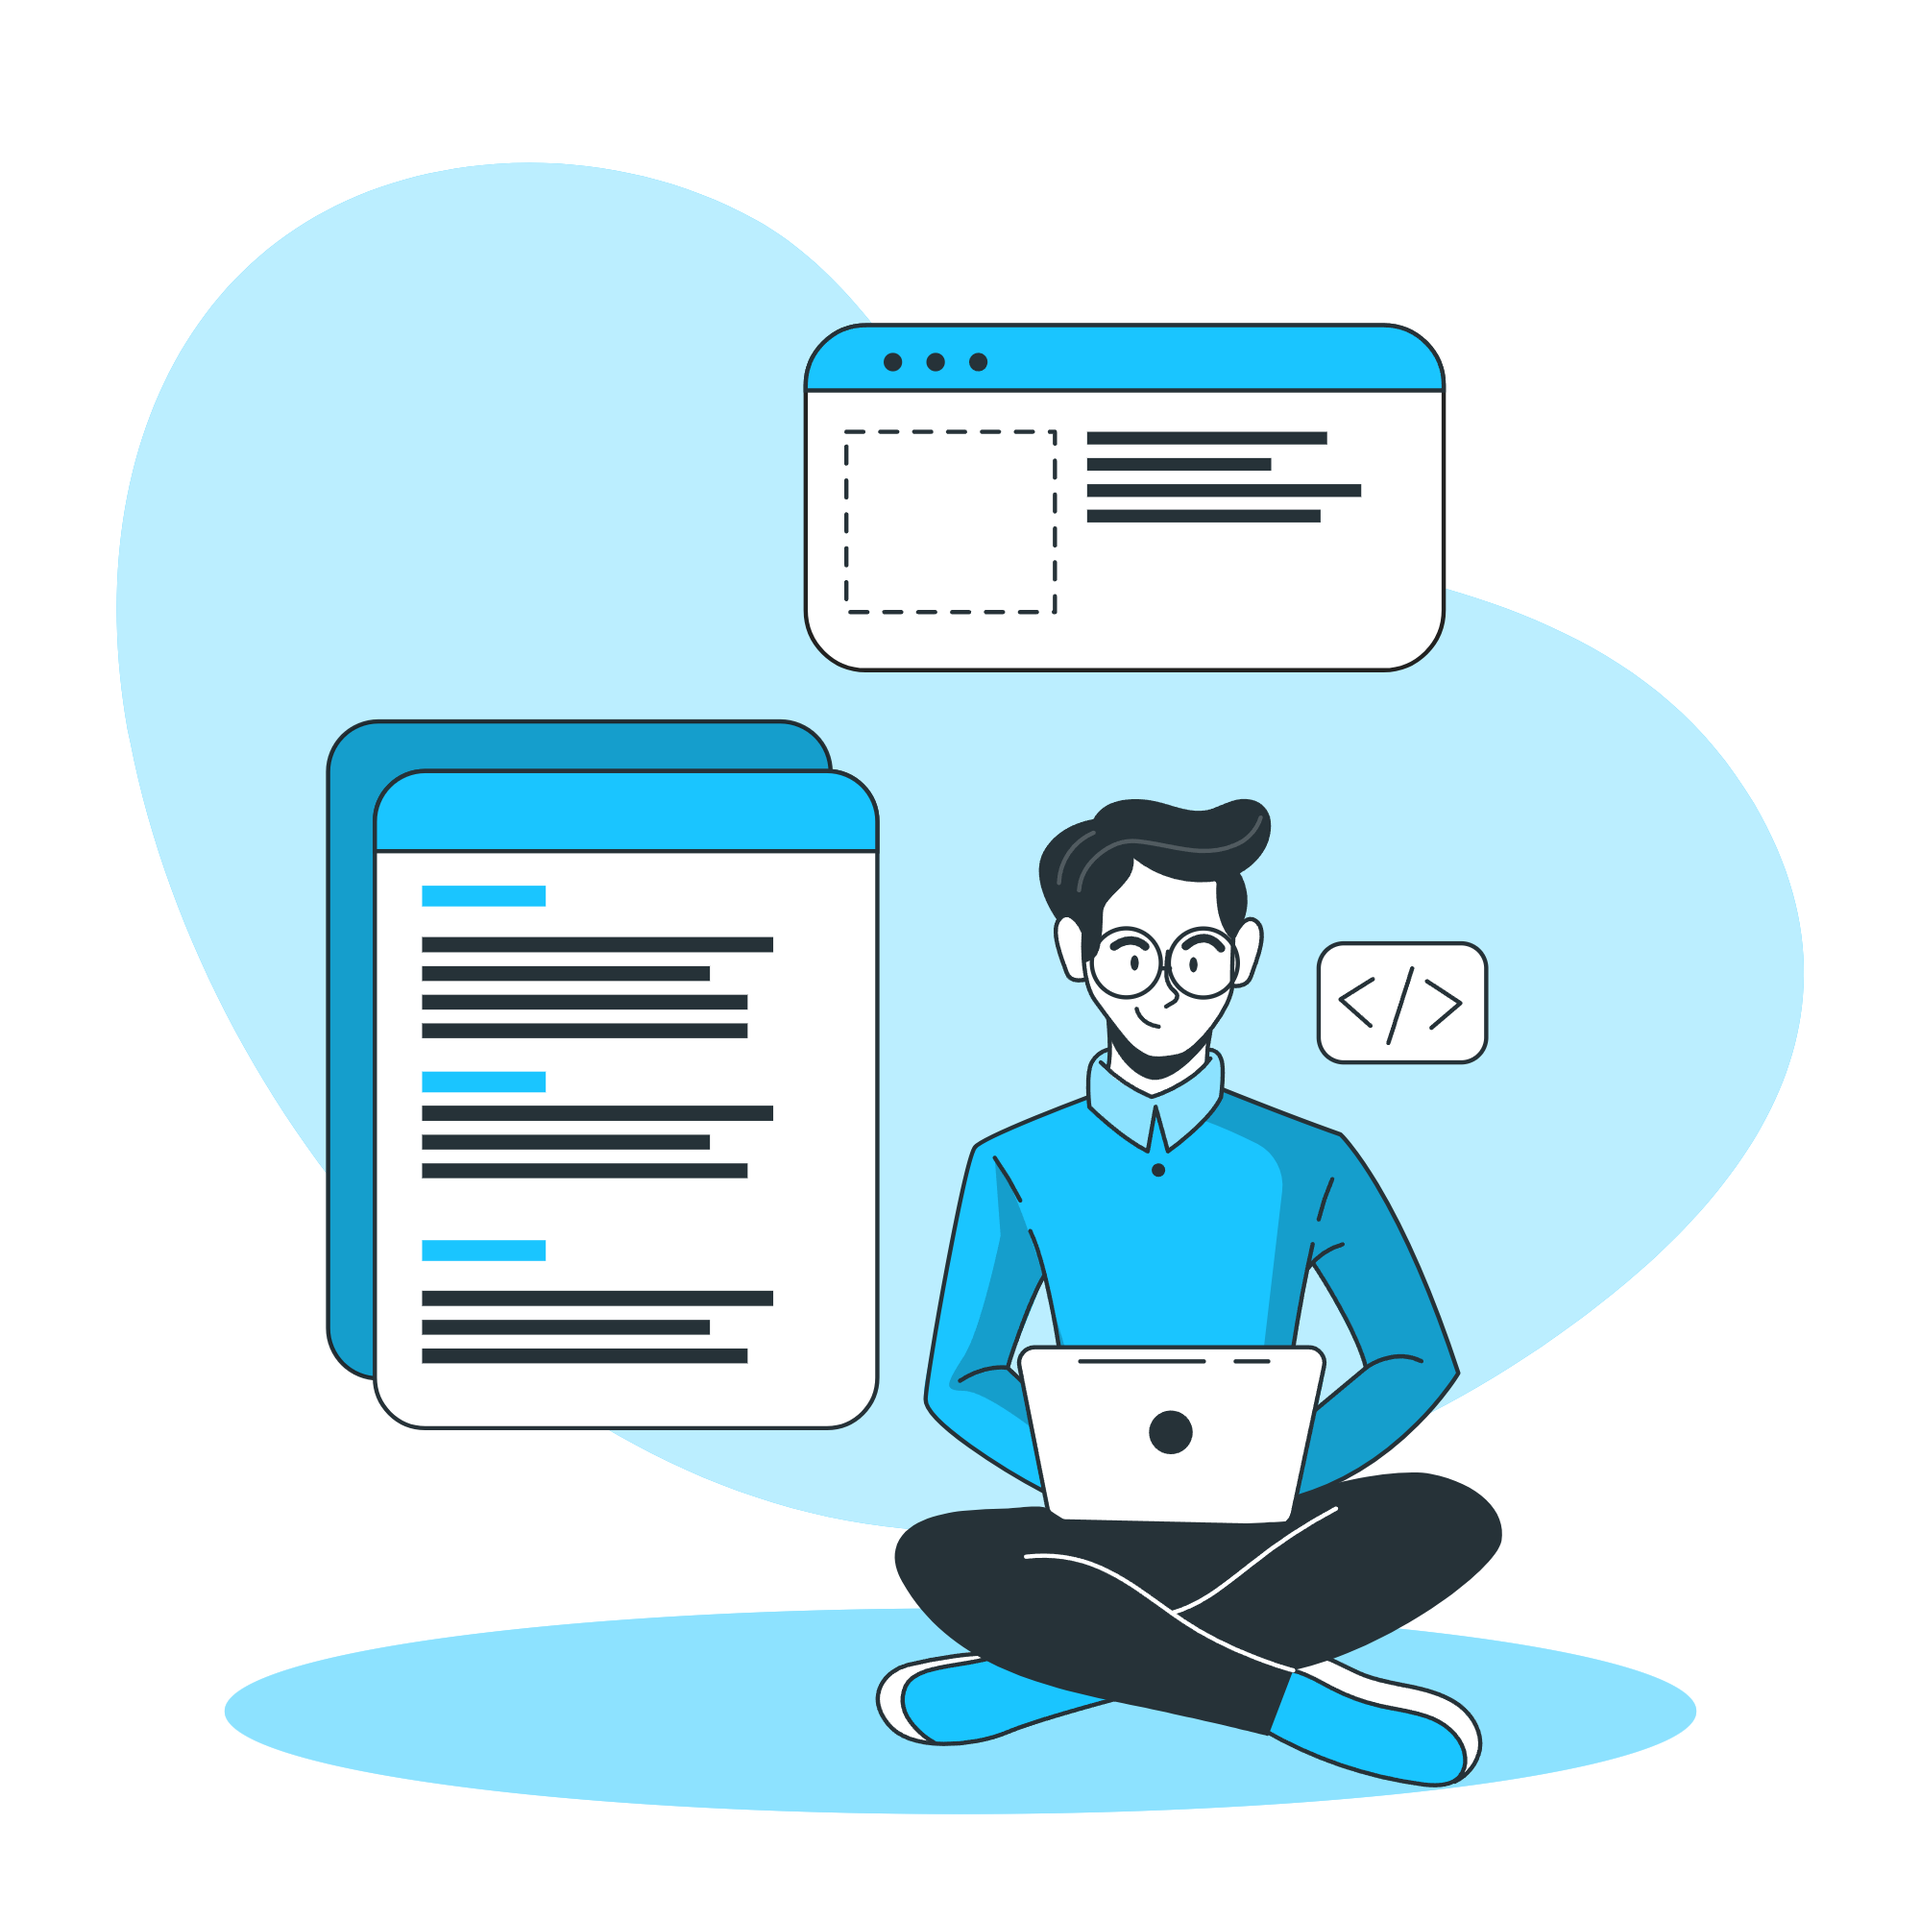
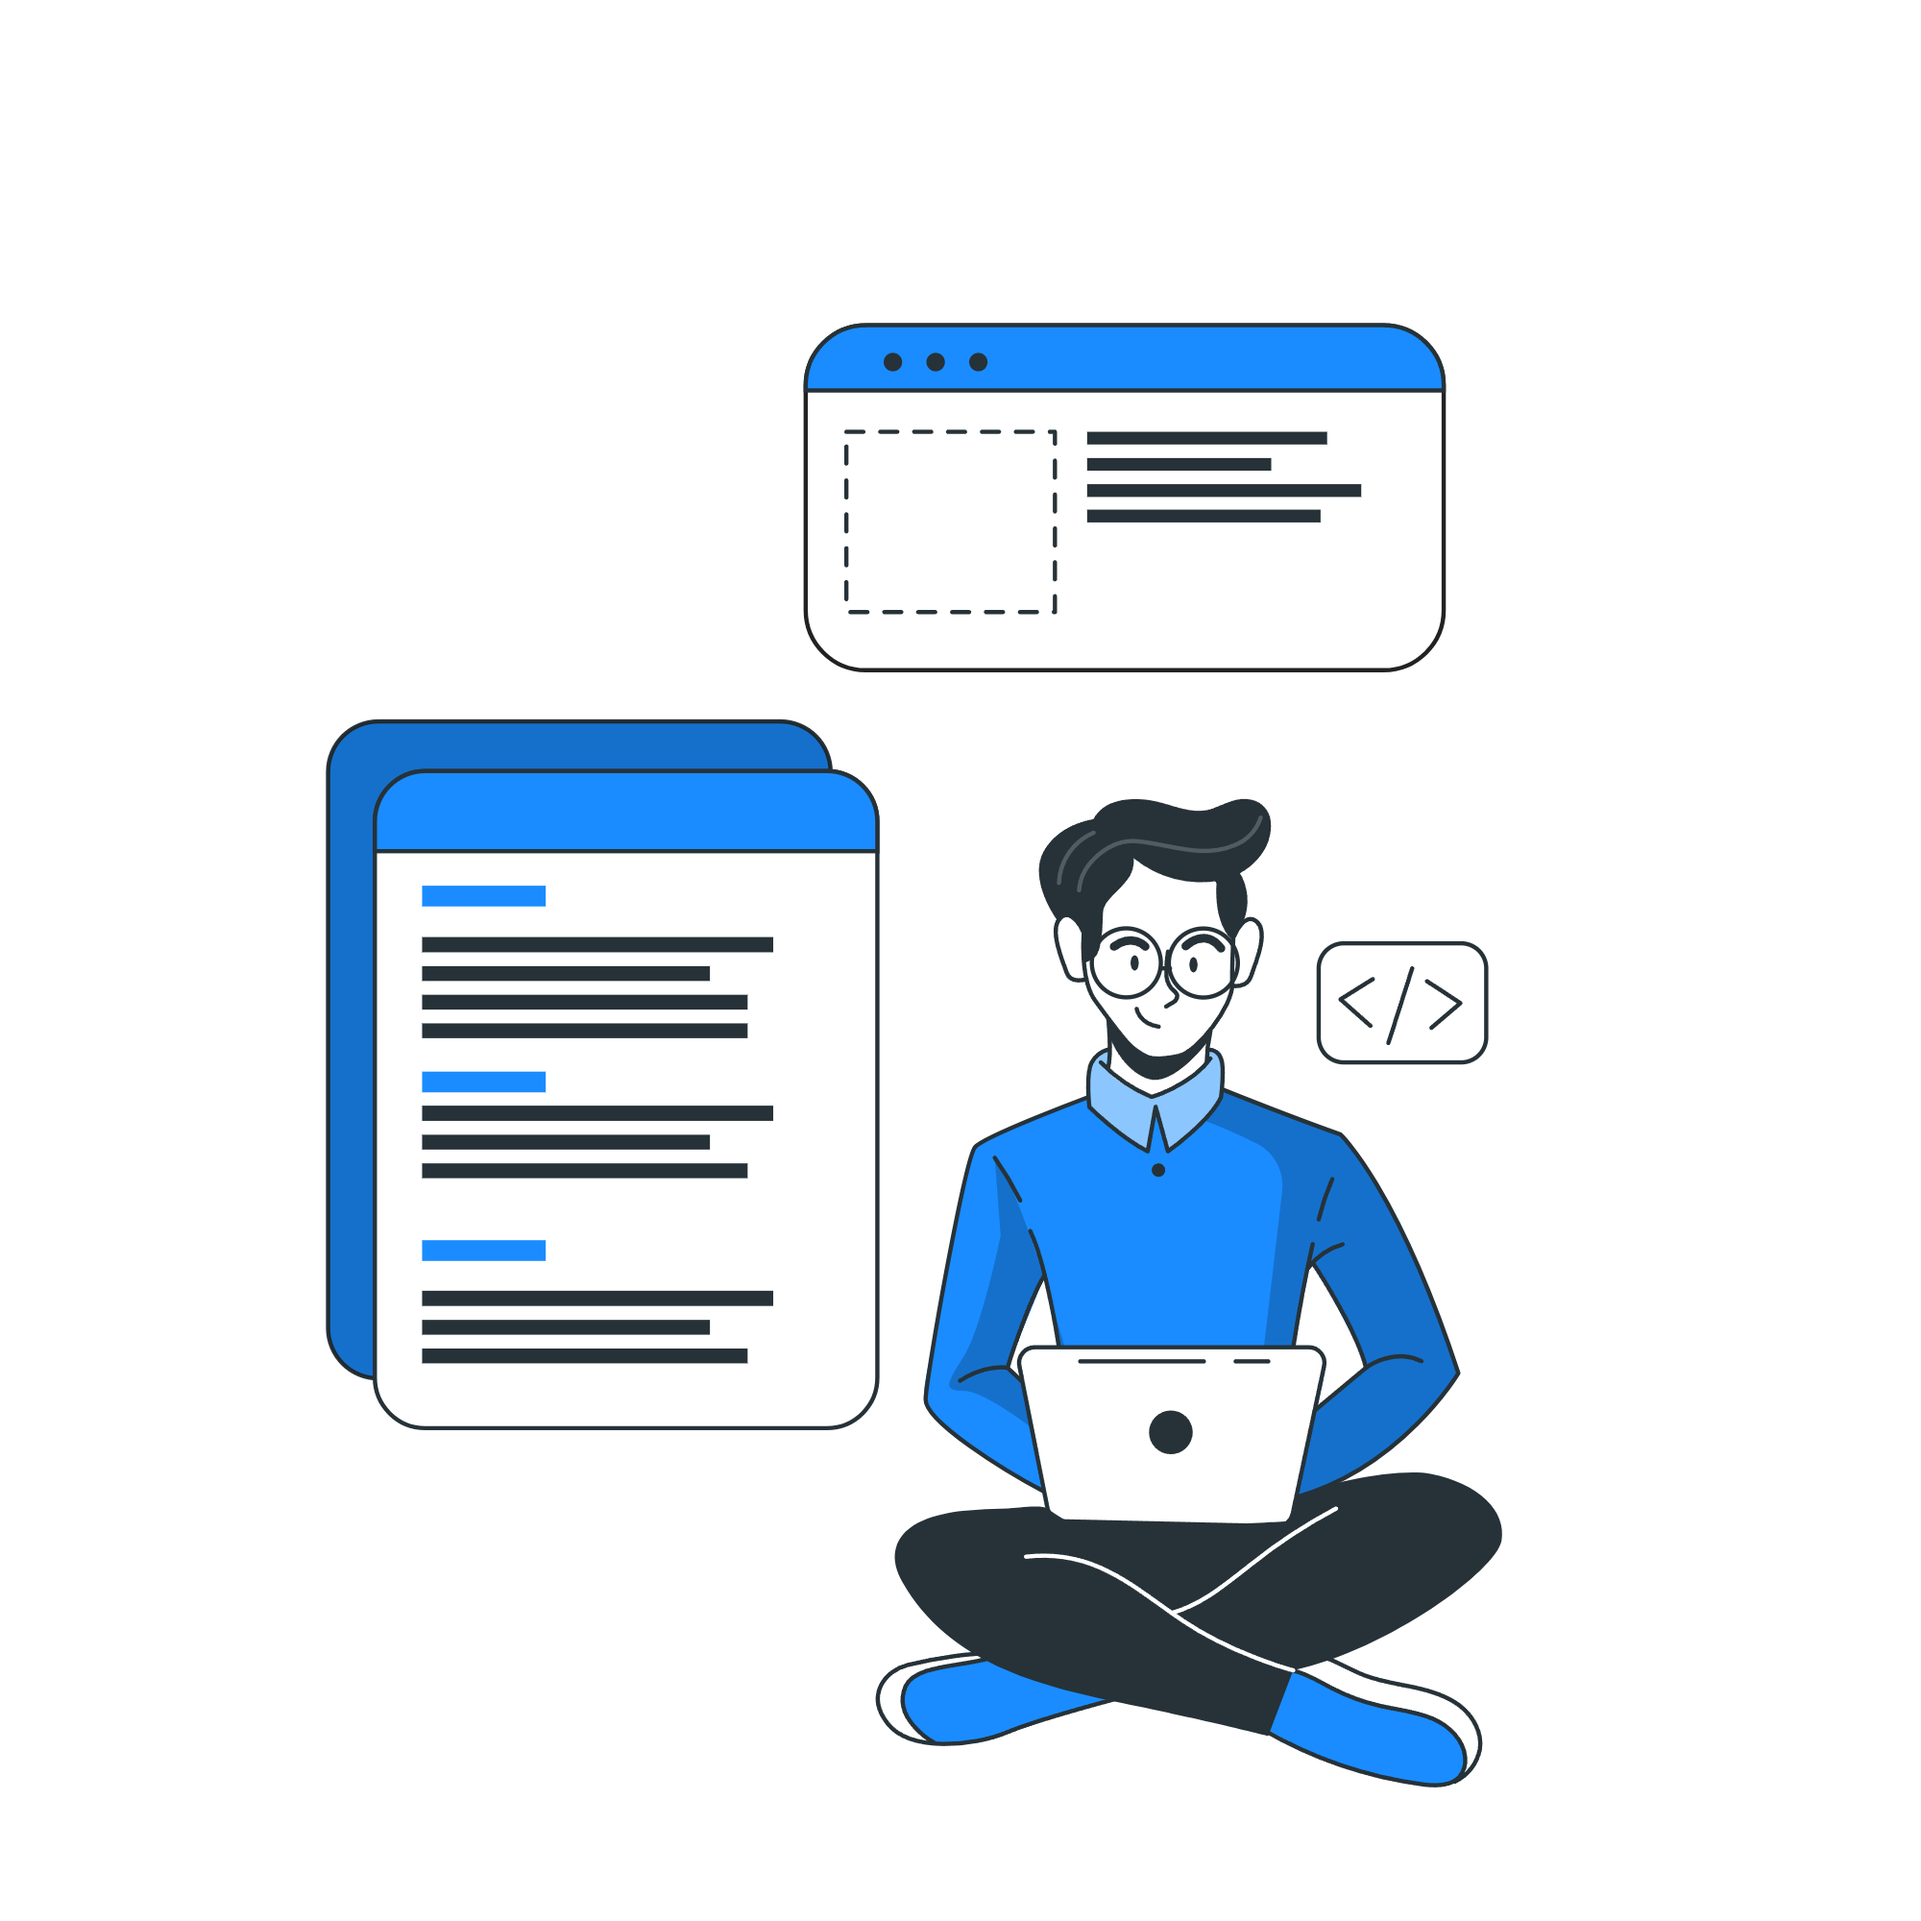
improvement

diff --git a/src/styles/Details.module.css b/src/styles/Details.module.css
@@ -22,15 +22,12 @@
 .detail_container {
     display: flex;
     align-items: center;
-    /* gap: 5rem; */
     justify-content: space-between;
+    gap: 2rem;
 }
 
-.img {
-    /* background-color:  #262626; */
-
+.image {
     flex: 0.5;
-    /* border: 1px solid black; */
     display: grid;
     place-items: center;
     border-radius: 2rem 0 0 2rem;
@@ -64,8 +61,7 @@
     }
 
     .skills h2 {
-        color: #262626;
-        font-size: 1.5rem;
+        font-size: 1.4rem;
         margin: 0;
         margin-bottom: 0.8rem;
     }
@@ -77,5 +73,28 @@
     .img {
         width: 300px;
         height: 300px;
+    }
+}
+
+/* for Ipad and Tablets */
+@media only screen and (max-width: 768px) and (min-width: 481px) {
+    .img {
+        width: 350px;
+        height: 350px;
+    }
+
+    .skills h2 {
+        font-size: 1.7rem;
+    }
+}
+
+/* for laptops */
+@media only screen and (min-width: 769px) and (max-width: 1024px) {
+    .skills h2 {
+        font-size: 1.7rem;
+    }
+
+    .detail_container {
+        gap: 2rem;
     }
 }

diff --git a/src/styles/Home.module.css b/src/styles/Home.module.css
@@ -28,7 +28,7 @@
 }
 
 .name > span {
-  color: #0099cd;
+  color: #1a8cff;
   font-size: 1.8rem;
 }
 
@@ -38,7 +38,8 @@
 }
 
 .btn > button {
-  background-color: #0099cd;
+  /* background-color: #0099cd; */
+  background-color: #1a8cff;
   padding: 0.7rem 1.4rem;
   color: #fff;
   border: 1.2px solid #f2f2f2;
@@ -51,9 +52,9 @@
 
 .btn > button:hover {
   background-color: #f2f2f2;
-  color: #0099cd;
-  border: 1.2px solid #0099cd;
-  box-shadow: 0 0 5px #0099cd;
+  color: #1a8cff;
+  border: 1.2px solid #1a8cff;
+  box-shadow: 0 0 5px #1a8cff;
 }
 
 .icons {
@@ -148,6 +149,10 @@
     font-weight: 600;
     font-size: 1em;
   }
+
+  .heading {
+    margin-top: 3rem;
+  }
 }
 
 /* for Ipad and Tablets */
@@ -177,6 +182,10 @@
     padding: 0.5rem 1.2rem;
     font-weight: 600;
     font-size: 1em;
+  }
+
+  .heading {
+    margin-top: 3rem;
   }
 }
 

diff --git a/src/components/Details.jsx b/src/components/Details.jsx
@@ -1,7 +1,6 @@
 import Image from "next/image";
 import styles from "../styles/Details.module.css";
 import Skills from "./Skills";
-// import {FaHtml5} from "react-icons/fa"
 
 const Details = () => {
   return (
@@ -10,13 +9,14 @@ const Details = () => {
         <div className={styles.wrapper}>
           <h1>Here's What I Do</h1>
           <div className={styles.detail_container}>
-            <div className={styles.img}>
+            <div className={styles.image}>
               <Image
-                src="/images/Hand.png"
+                src="/images/api.png"
                 width={400}
                 height={400}
                 quality={100}
                 loading="lazy"
+                className={styles.img}
               />
             </div>
             <div className={styles.skills}>

diff --git a/src/pages/Home.jsx b/src/pages/Home.jsx
@@ -43,7 +43,7 @@ const Home = () => {
             </div>
             <div className={styles.image}>
               <Image
-                src="/images/dev.png"
+                src="/images/man-1.png"
                 width={500}
                 height={500}
                 quality={100}
